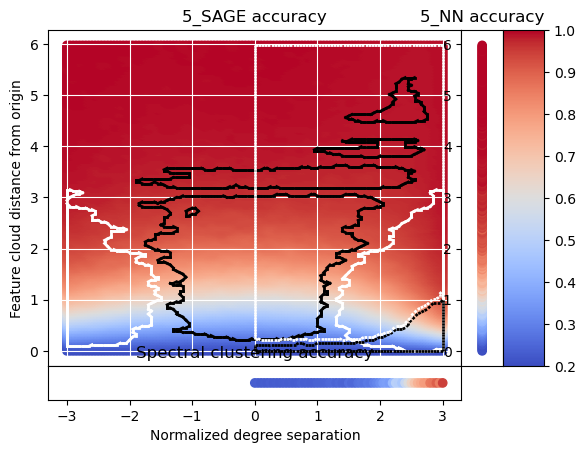
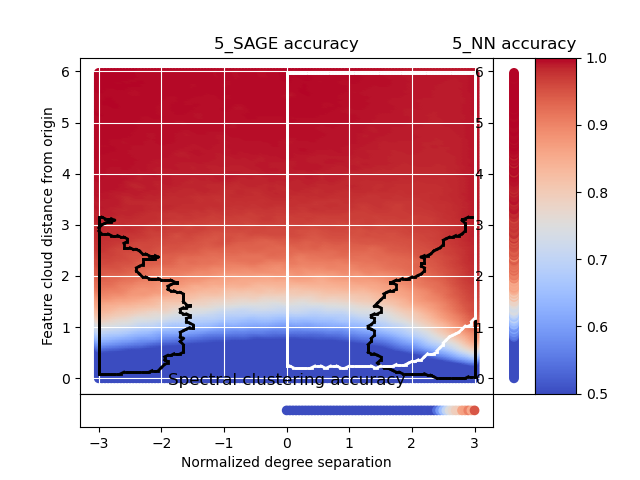
added the DC plots

diff --git a/tests/store_plots.py b/tests/store_plots.py
@@ -1,0 +1,205 @@
+from telnetlib import XASCII
+from tkinter.messagebox import YES
+import matplotlib.pyplot as plt
+import numpy as np
+from matplotlib.gridspec import GridSpec
+from scipy.spatial import Delaunay
+import numpy as np
+from scipy.ndimage import convolve
+
+
+def alpha_shape(points, alpha, only_outer=True):
+    """
+    Compute the alpha shape (concave hull) of a set of points.
+    :param points: np.array of shape (n,2) points.
+    :param alpha: alpha value.
+    :param only_outer: boolean value to specify if we keep only the outer border
+    or also inner edges.
+    :return: set of (i,j) pairs representing edges of the alpha-shape. (i,j) are
+    the indices in the points array.
+    """
+    assert points.shape[0] > 3, "Need at least four points"
+
+    def add_edge(edges, i, j):
+        """
+        Add an edge between the i-th and j-th points,
+        if not in the list already
+        """
+        if (i, j) in edges or (j, i) in edges:
+            # already added
+            assert (j, i) in edges, "Can't go twice over same directed edge right?"
+            if only_outer:
+                # if both neighboring triangles are in shape, it's not a boundary edge
+                edges.remove((j, i))
+            return
+        edges.add((i, j))
+
+    tri = Delaunay(points)
+    edges = set()
+    # Loop over triangles:
+    # ia, ib, ic = indices of corner points of the triangle
+    for ia, ib, ic in tri.vertices:
+        pa = points[ia]
+        pb = points[ib]
+        pc = points[ic]
+        # Computing radius of triangle circumcircle
+        # www.mathalino.com/reviewer/derivation-of-formulas/derivation-of-formula-for-radius-of-circumcircle
+        a = np.sqrt((pa[0] - pb[0]) ** 2 + (pa[1] - pb[1]) ** 2)
+        b = np.sqrt((pb[0] - pc[0]) ** 2 + (pb[1] - pc[1]) ** 2)
+        c = np.sqrt((pc[0] - pa[0]) ** 2 + (pc[1] - pa[1]) ** 2)
+        s = (a + b + c) / 2.0
+        area = np.sqrt(s * (s - a) * (s - b) * (s - c))
+        circum_r = a * b * c / (4.0 * area)
+        if circum_r < alpha:
+            add_edge(edges, ia, ib)
+            add_edge(edges, ib, ic)
+            add_edge(edges, ic, ia)
+    return edges
+
+
+models = ["GCN","SAGE","GAT","transformer"]
+num_class = [2,3,5,7]
+dc_s = [True,False]
+
+for model in models:
+    for num_classes in num_class:
+        for DC in dc_s:
+
+            show_positive = True
+            show_negative = False
+
+            f2 = f"data/averaged_runs/Masters/{num_classes}_NN.txt"
+            if DC:
+                f1 = f"data/averaged_runs/Masters/{num_classes}_DC_{model}.txt"
+                f3 = f"data/averaged_runs/Masters/{num_classes}_DC_Spectral.txt"
+            else:
+                f1 = f"data/averaged_runs/Masters/{num_classes}_{model}.txt"
+                f3 = f"data/averaged_runs/Masters/{num_classes}_Spectral.txt"
+
+            test_accs = np.genfromtxt(f1)
+            test_accs_vanilla = np.genfromtxt(f2)
+            test_accs_spectral = np.genfromtxt(f3)
+            #print(len(test_accs))
+            print(test_accs.shape)
+            #note put the NN and the eigenvector in test_accs_vanilla
+            x = test_accs[:,1]# lambda
+            z = test_accs[:,0] #accs
+            row_size = 121
+            z = z.reshape(200,row_size)
+            x = x.reshape(200,row_size)
+            y = test_accs[:,2]# mu
+            y = y.reshape(200,row_size)
+            y = y
+            first_z = z
+
+            NN_x = test_accs_vanilla[:,2]
+            NN_c = test_accs_vanilla[:,0]
+            NN_y = test_accs_vanilla[:,1]
+            S_x = test_accs_spectral[:,2]
+            S_c = test_accs_spectral[:,0]
+            S_y = test_accs_spectral[:,1]
+            #y = y.reshape(200,61)
+            print(test_accs_vanilla.shape)
+            f1 = f1[27:-4]
+            f2 = f2[27:-4]
+            fig = plt.figure()
+            gs = GridSpec(11,12)
+            ax_main = fig.add_subplot(gs[0:10,0:10])
+            ax_NN = fig.add_subplot(gs[:10,10],sharey = ax_main)
+            ax_Spectral = fig.add_subplot(gs[10,0:10],sharex=ax_main)
+            fig.subplots_adjust(wspace = 0,hspace=0)
+            ax_NN.set_xticks([])
+            #ax_NN.set_yticks([])
+            ax_Spectral.set_yticks([])
+            kernel = np.array([[1,4,7,4,1],
+                            [4,16,26,16,4],
+                            [7,26,41,26,7],
+                            [4,16,26,16,4],
+                            [1,4,7,4,1]])
+            z = convolve(z,kernel)/kernel.sum()
+            z = convolve(z,kernel)/kernel.sum()
+
+            new_Z = np.zeros((200,row_size))
+            for i in range(200):
+                new_Z[i] = z[i] - test_accs_vanilla[i][0]
+            compare_NN= new_Z
+
+
+
+            compare_NN = convolve(compare_NN,kernel)/np.sum(kernel)
+            compare_NN = convolve(compare_NN,kernel)/np.sum(kernel)
+
+            improvement_threshold = .01
+
+            idx = compare_NN < -improvement_threshold
+            xpoints=x[idx]
+            ypoints=y[idx]
+            points = np.vstack([xpoints,ypoints]).T
+
+            #plots the regions where the model performed worse than the spectral methods
+            if len(points )> 4 and show_negative:
+                edges = alpha_shape(points,0.05)
+                for a,(i,j) in enumerate(edges):
+                    ax_main.plot(points[[i, j], 0], points[[i, j], 1],"k",linewidth=2)
+            idx = compare_NN > improvement_threshold
+            xpoints=x[idx]
+            ypoints=y[idx]
+            points = np.vstack([xpoints,ypoints]).T
+
+            #plots the regions where the model performed better than the spectral methods
+            if len(points )> 4 and show_positive:
+                edges = alpha_shape(points,0.05)
+                for a,(i,j) in enumerate(edges):
+                    ax_main.plot(points[[i, j], 0], points[[i, j], 1],"k",linewidth=2)
+
+            new_x = x[:,60:]
+            new_y = y[:,60:]
+            new_Z = np.zeros((61,200))
+            for i in range(61):
+                new_Z[i] = z[:,60+i] - test_accs_spectral[i][0]
+                #print(test_accs_vanilla[i][0])
+            compare_Spectral = new_Z.T
+            compare_Spectral = convolve(compare_Spectral,kernel)/np.sum(kernel)
+            idx = compare_Spectral < -improvement_threshold
+            xpoints=new_x[idx]
+            ypoints=new_y[idx]
+            points = np.vstack([xpoints,ypoints]).T
+            edges = alpha_shape(points,0.05)
+
+            if show_negative:
+                for a,(i,j) in enumerate(edges):
+                    ax_main.plot(points[[i, j], 0], points[[i, j], 1],"w",linewidth=2,linestyle=(0, (1, 10)))
+            idx = compare_Spectral > improvement_threshold
+            xpoints=new_x[idx]
+            ypoints=new_y[idx]
+            points = np.vstack([xpoints,ypoints]).T
+            edges = alpha_shape(points,0.05)
+
+            #plots where the model performed better than the NN
+            if show_positive:
+                for a,(i,j) in enumerate(edges):
+                    ax_main.plot(points[[i, j], 0], points[[i, j], 1],"w",linewidth=2)
+
+            # this makes it look prettier
+
+            im_main = ax_main.scatter(x,y,c=z,cmap="coolwarm",vmin=1/2,vmax=1)
+            ax_NN.scatter(NN_y,NN_x,c=NN_c,cmap="coolwarm",vmin=1/2,vmax=1)
+            ax_Spectral.scatter(S_y,S_x,c=S_c,cmap="coolwarm",vmin=1/2,vmax=1)
+            #ax_Spectral.plot([-3,0],[0,0],"--k")
+            plt.colorbar(im_main, ax=ax_main,cax = fig.add_subplot(gs[0:10,11]))
+
+            ax_main.set_title(f"{f1} accuracy")
+            ax_main.grid(color="white")
+            ax_main.set_ylabel("Feature cloud distance from origin")
+            ax_NN.set_title(f"{f2} accuracy")
+            ax_Spectral.set_title("Spectral clustering accuracy")
+            ax_Spectral.set_xlabel("Normalized degree separation")
+
+            # # This is for plotting datasets
+            # ax_main.scatter([6.545361984128282],[0.37839325207321856],c=np.array([.8]),s=200,cmap="coolwarm",vmin=.5,vmax=1,edgecolors="k")
+            # ax_main.grid(False)
+            if(DC):
+                plt.savefig(f'results/{num_classes}_DC_{model}.png')
+            else:
+                plt.savefig(f'results/{num_classes}_{model}.png')
+            plt.clf()

diff --git a/tests/master_plot.py b/tests/master_plot.py
@@ -57,12 +57,19 @@ def alpha_shape(points, alpha, only_outer=True):
     return edges
 
 num_classes = 2
-COMPARE = False# this is for the comparison of the two methods
-NN = False
-EIG = False
-f1 = f"data/averaged_runs/Masters/{num_classes}_transformer.txt"
+DC = False
+model = "GCN"
+show_positive = False
+show_negative = False
+
 f2 = f"data/averaged_runs/Masters/{num_classes}_NN.txt"
-f3 = f"data/averaged_runs/Masters/{num_classes}_Spectral.txt"
+if DC:
+    f1 = f"data/averaged_runs/Masters/{num_classes}_DC_{model}.txt"
+    f3 = f"data/averaged_runs/Masters/{num_classes}_DC_Spectral.txt"
+else:
+    f1 = f"data/averaged_runs/Masters/{num_classes}_{model}.txt"
+    f3 = f"data/averaged_runs/Masters/{num_classes}_Spectral.txt"
+
 test_accs = np.genfromtxt(f1)
 test_accs_vanilla = np.genfromtxt(f2)
 test_accs_spectral = np.genfromtxt(f3)
@@ -122,7 +129,9 @@ idx = compare_NN < -improvement_threshold
 xpoints=x[idx]
 ypoints=y[idx]
 points = np.vstack([xpoints,ypoints]).T
-if len(points )> 4:
+
+#plots the regions where the model performed worse than the spectral methods
+if len(points )> 4 and show_negative:
     edges = alpha_shape(points,0.05)
     for a,(i,j) in enumerate(edges):
         ax_main.plot(points[[i, j], 0], points[[i, j], 1],"k",linewidth=2)
@@ -130,10 +139,12 @@ idx = compare_NN > improvement_threshold
 xpoints=x[idx]
 ypoints=y[idx]
 points = np.vstack([xpoints,ypoints]).T
-if len(points )> 4:
+
+#plots the regions where the model performed better than the spectral methods
+if len(points )> 4 and show_positive:
     edges = alpha_shape(points,0.05)
     for a,(i,j) in enumerate(edges):
-        ax_main.plot(points[[i, j], 0], points[[i, j], 1],"w",linewidth=2)
+        ax_main.plot(points[[i, j], 0], points[[i, j], 1],"k",linewidth=2)
 
 new_x = x[:,60:]
 new_y = y[:,60:]
@@ -148,21 +159,26 @@ xpoints=new_x[idx]
 ypoints=new_y[idx]
 points = np.vstack([xpoints,ypoints]).T
 edges = alpha_shape(points,0.05)
-for a,(i,j) in enumerate(edges):
-    ax_main.plot(points[[i, j], 0], points[[i, j], 1],"k",linewidth=2,linestyle=(0, (1, 10)))
+
+if show_negative:
+    for a,(i,j) in enumerate(edges):
+        ax_main.plot(points[[i, j], 0], points[[i, j], 1],"w",linewidth=2,linestyle=(0, (1, 10)))
 idx = compare_Spectral > improvement_threshold
 xpoints=new_x[idx]
 ypoints=new_y[idx]
 points = np.vstack([xpoints,ypoints]).T
 edges = alpha_shape(points,0.05)
-for a,(i,j) in enumerate(edges):
-    ax_main.plot(points[[i, j], 0], points[[i, j], 1],"w",linewidth=2,linestyle=(0, (1, 10)))
+
+#plots where the model performed better than the NN
+if show_positive:
+    for a,(i,j) in enumerate(edges):
+        ax_main.plot(points[[i, j], 0], points[[i, j], 1],"w",linewidth=2)
 
 # this makes it look prettier
 
-im_main = ax_main.scatter(x,y,c=z,cmap="coolwarm",vmin=1/num_classes,vmax=1)
-ax_NN.scatter(NN_y,NN_x,c=NN_c,cmap="coolwarm",vmin=1/num_classes,vmax=1)
-ax_Spectral.scatter(S_y,S_x,c=S_c,cmap="coolwarm",vmin=1/num_classes,vmax=1)
+im_main = ax_main.scatter(x,y,c=z,cmap="coolwarm",vmin=1/2,vmax=1)
+ax_NN.scatter(NN_y,NN_x,c=NN_c,cmap="coolwarm",vmin=1/2,vmax=1)
+ax_Spectral.scatter(S_y,S_x,c=S_c,cmap="coolwarm",vmin=1/2,vmax=1)
 #ax_Spectral.plot([-3,0],[0,0],"--k")
 plt.colorbar(im_main, ax=ax_main,cax = fig.add_subplot(gs[0:10,11]))
 
@@ -173,9 +189,8 @@ ax_NN.set_title(f"{f2} accuracy")
 ax_Spectral.set_title("Spectral clustering accuracy")
 ax_Spectral.set_xlabel("Normalized degree separation")
 
-# This is for plotting datasets
+# # This is for plotting datasets
 # ax_main.scatter([6.545361984128282],[0.37839325207321856],c=np.array([.8]),s=200,cmap="coolwarm",vmin=.5,vmax=1,edgecolors="k")
 # ax_main.grid(False)
-
 
 plt.show()
